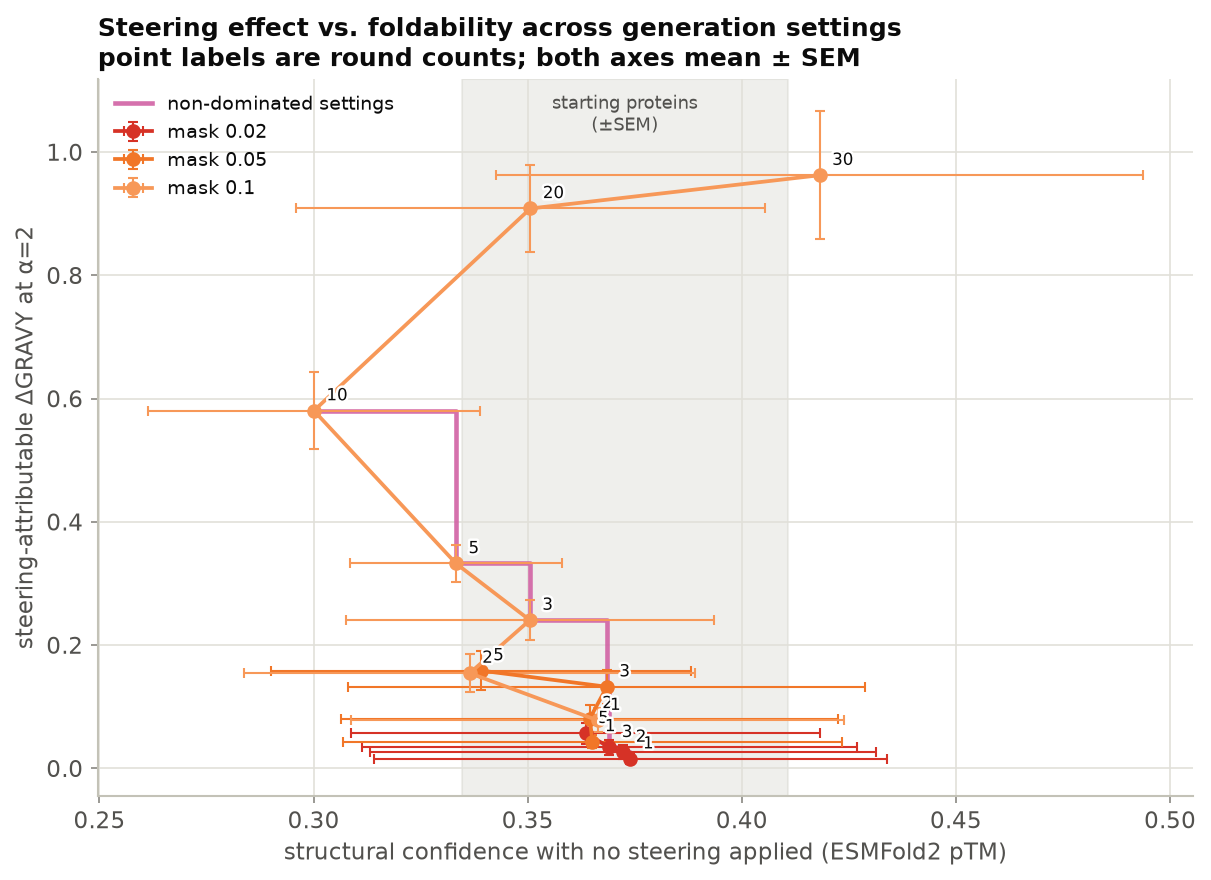
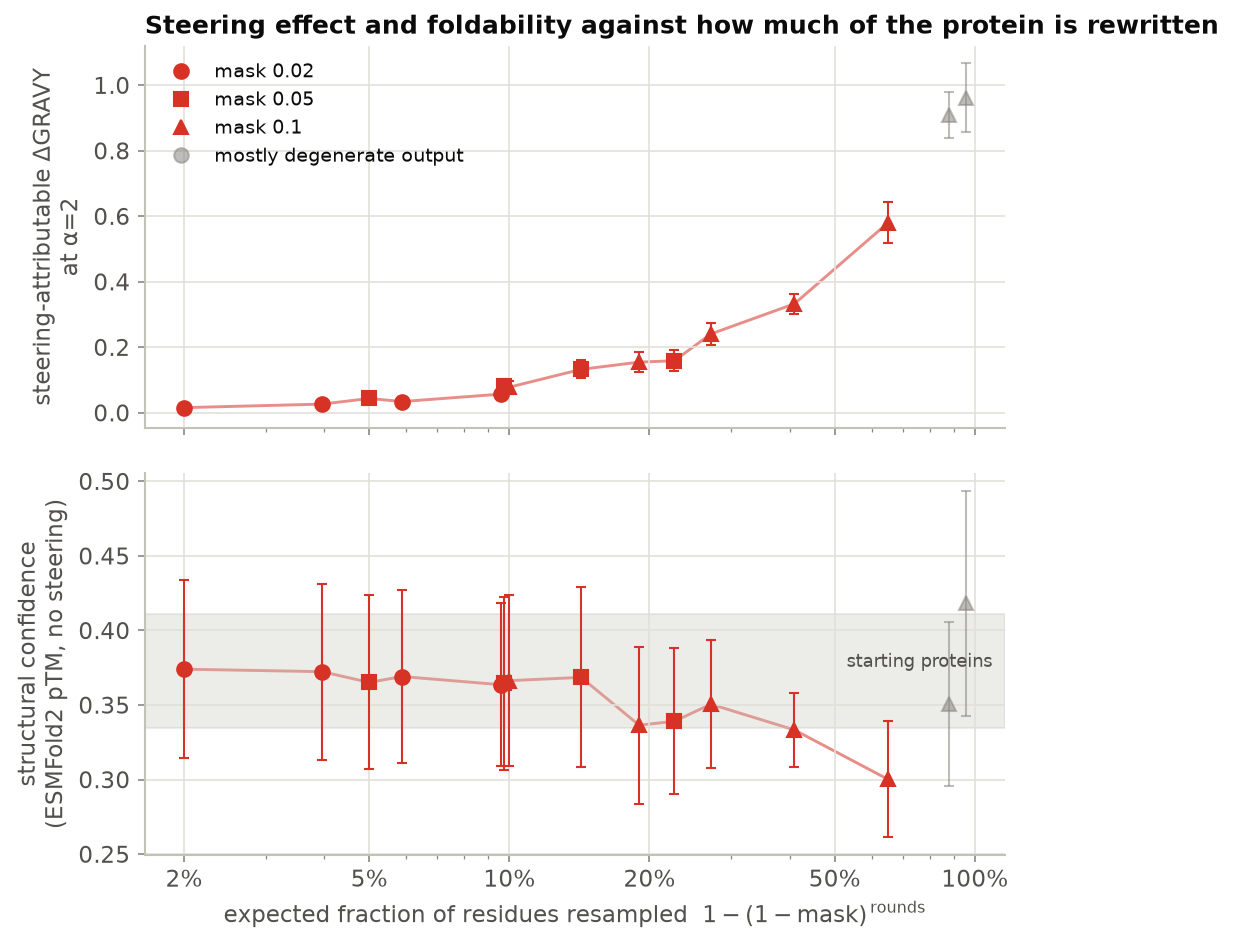
Update the draft for the replotted trade-off, and report the collapse as a result
The rebuilt figure makes visible something the objective-space scatter hid: mask fraction and
round count act only through their product. At expected coverage 0.10 the settings 0.02x5,
0.05x2 and 0.10x1 agree to 0.002 pTM and 0.02 dGRAVY, so the decoding grid is a
one-dimensional family and the appendix now says so. It also shows foldability holding inside
the starting proteins' own interval up to ~15% coverage before declining, which the previous
plot could not resolve.

diff --git a/docs/paper_draft.tex b/docs/paper_draft.tex
@@ -619,9 +619,17 @@ pass applied directly to the clamped activation (no generation).}
 \label{app:steer-protocol}
 
 Fig.~\ref{fig:steer-dose} shows the effect rising with $\alpha$ while structural confidence
-stays flat, for both arms, far below the starting proteins. Fig.~\ref{fig:steer-tradeoff}
-maps the achievable settings: masked-Gibbs round count and mask fraction trade steering
-effect against foldability, with degenerate output counted as a failure of the setting.
+stays flat, for both arms, far below the starting proteins.
+
+The decoding budget is what governs the loss, and it is one-dimensional. Mask fraction and
+round count are interchangeable: at an expected coverage of $0.10$, the settings
+$0.02{\times}5$, $0.05{\times}2$ and $0.10{\times}1$ give pTM $0.364$, $0.364$, $0.366$ and
+effect $+0.057$, $+0.081$, $+0.078$ respectively. Fig.~\ref{fig:steer-tradeoff} therefore
+plots both objectives against $1-(1-\mathrm{mask})^{\mathrm{rounds}}$, the fraction of
+residues resampled at least once. Foldability stays within the starting proteins' own
+interval up to ${\sim}15\%$ coverage and declines beyond it, while the steering effect grows
+throughout --- so the trade-off is not between mask and rounds, but between total rewriting
+and structure.
 
 \begin{table}[h]
 \centering
@@ -674,9 +682,11 @@ but from an already-degraded baseline.}
 \begin{figure}[h]
 \centering
 \includegraphics[width=0.72\textwidth]{figures/steer_generation_tradeoff.png}
-\caption{Steering effect against foldability across decoding settings (mask fraction $\times$
-rounds), $T{=}0.5$. Point labels are round counts; settings whose output is mostly
-degenerate are excluded from the frontier.}
+\caption{Steering effect (top) and foldability (bottom) against how much of the protein the
+decoder rewrites, $T{=}0.5$. Marker shape distinguishes mask fraction; the three series fall
+on a single curve, i.e.\ mask fraction and round count act only through their product.
+Shaded band: the starting proteins' own pTM ($\pm$SEM). Grey points are settings whose
+output is mostly degenerate and are excluded from the trend.}
 \label{fig:steer-tradeoff}
 \end{figure}
 
